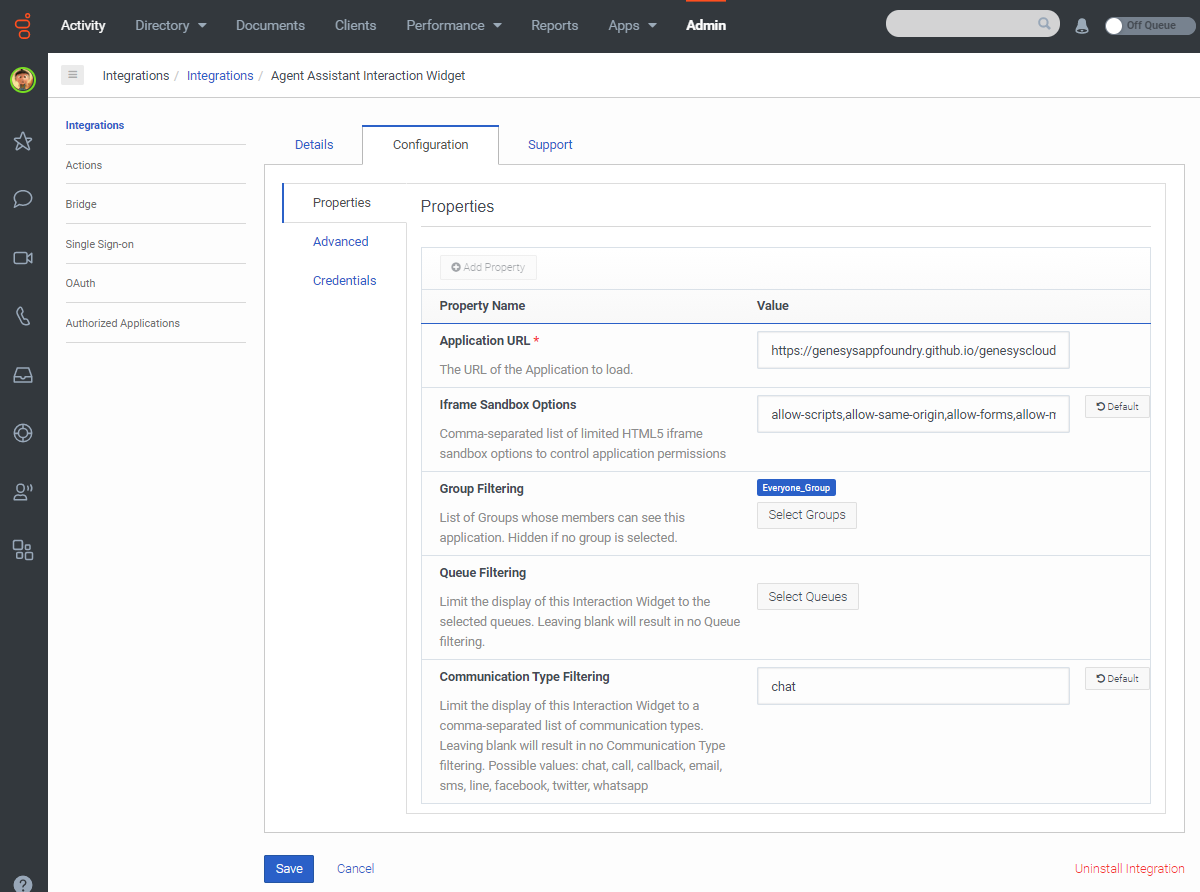
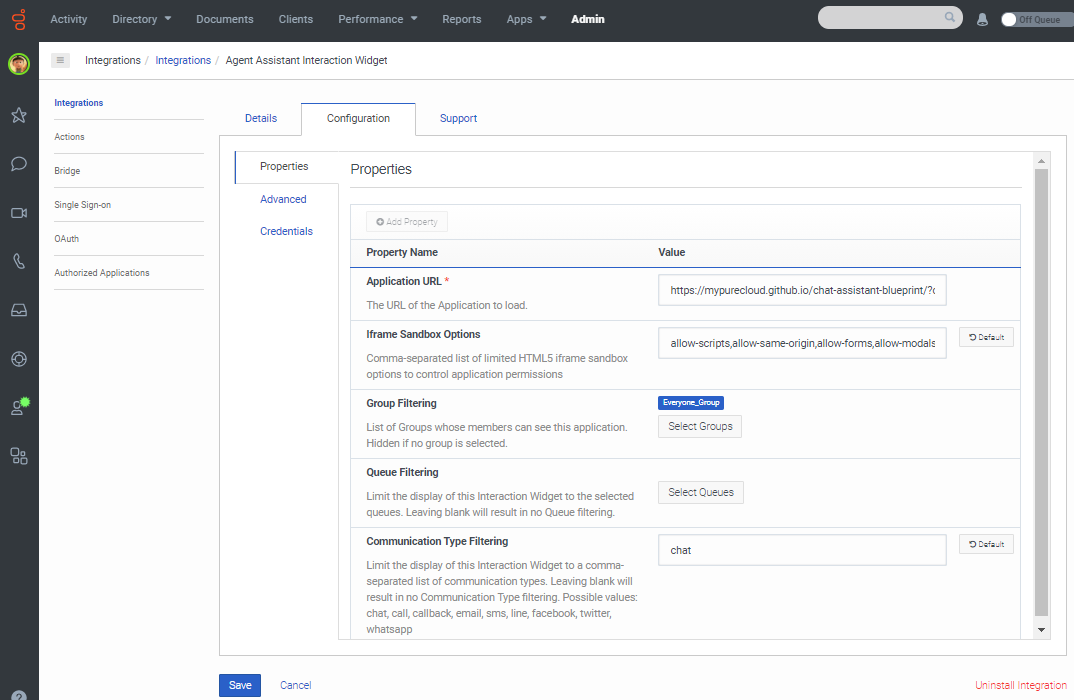
Update images

diff --git a/blueprint/index.md b/blueprint/index.md
@@ -35,13 +35,13 @@ The Chat Assistant integration has the following stages:
 
 ### Download the repository containing the project files
 
-1. Go to the [repository](https://github.com/GenesysAppFoundry/genesyscloud-chat-assistant) and clone it to your machine.
+1. Go to the [repository](https://github.com/MyPureCloud/chat-assistant-blueprint) and clone it to your machine.
 
 ### Create a Token Implicit OAuth Grant for Genesys Cloud
 
 1. Login to your Genesys Cloud organization and create a new OAuth API (Token Implicit Grant). [Create an OAuth Client](https://help.mypurecloud.com/articles/create-an-oauth-client/)
 2. Assign your hosted site to the Authorized redirect URIs.
-3. Modify [main.js](https://github.com/GenesysAppFoundry/genesyscloud-chat-assistant/blob/master/docs/scripts/main.js) from the blueprint repository and enter the credentials for Genesys Cloud.
+3. Modify [main.js](https://github.com/MyPureCloud/chat-assistant-blueprint/blob/master/docs/scripts/main.js) from the blueprint repository and enter the credentials for Genesys Cloud.
 
 ### Setup an Interaction Widget integration in Genesys Cloud
 1. Login to your Genesys Cloud organization and add a new **Integration**.

diff --git a/README.md b/README.md
@@ -1,6 +1,6 @@
 # Deployment Guide for Chat Assistant on Genesys Cloud
 
-> View the full [Genesys Cloud Chat Assistant Blueprint article](https://developer.mypurecloud.com/blueprints/genesyscloud-chat-assistant/) on the Genesys Cloud Developer Center.
+> View the full [Genesys Cloud Chat Assistant Blueprint article](https://developer.mypurecloud.com/blueprints/chat-assistant-blueprint/) on the Genesys Cloud Developer Center.
 
 This Genesys Blueprint provides instructions for deploying a chat assistant on Genesys Cloud. The Chat Assistant actively listens to the chat interaction and suggest responses based on keywords. Sending messages and the typing indicator features of the Chat API will be convenient in this scenario.
 
